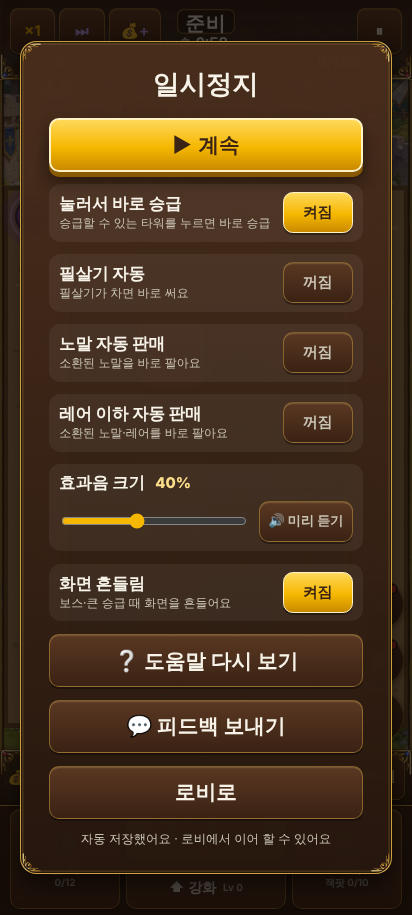
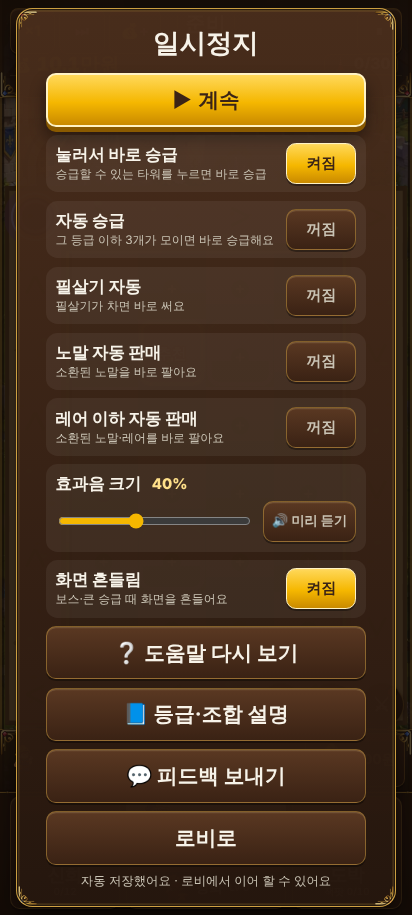
FB63 일시정지 패널 위아래 여백 6→4cqw (412×915 한 화면), fb46 낮은 화면 스크롤 끝까지
Claude-Session: https://claude.ai/code/session_01TtVcSoY665DmsK6h3dcafN

diff --git a/src/ui/styles.css b/src/ui/styles.css
@@ -787,10 +787,10 @@ body {
   display: flex;
   flex-direction: column;
   align-items: stretch;
-  /* 피드백 #63: '자동 승급' 줄이 늘어 412×915에서 [로비로]가 화면 밖으로 밀려 줄 사이를 3 → 2cqw */
+  /* 피드백 #63: '자동 승급' 줄이 늘어 412×915에서 패널이 화면보다 길어져 줄 사이 3 → 2cqw, 위아래 안쪽 여백 6 → 4cqw */
   gap: 2cqw;
   min-width: 60cqw;
-  padding: 6cqw 7cqw;
+  padding: 4cqw 7cqw;
   background: var(--panel);
   border: 0.4cqw solid var(--panel-line);
   border-radius: 4cqw;
